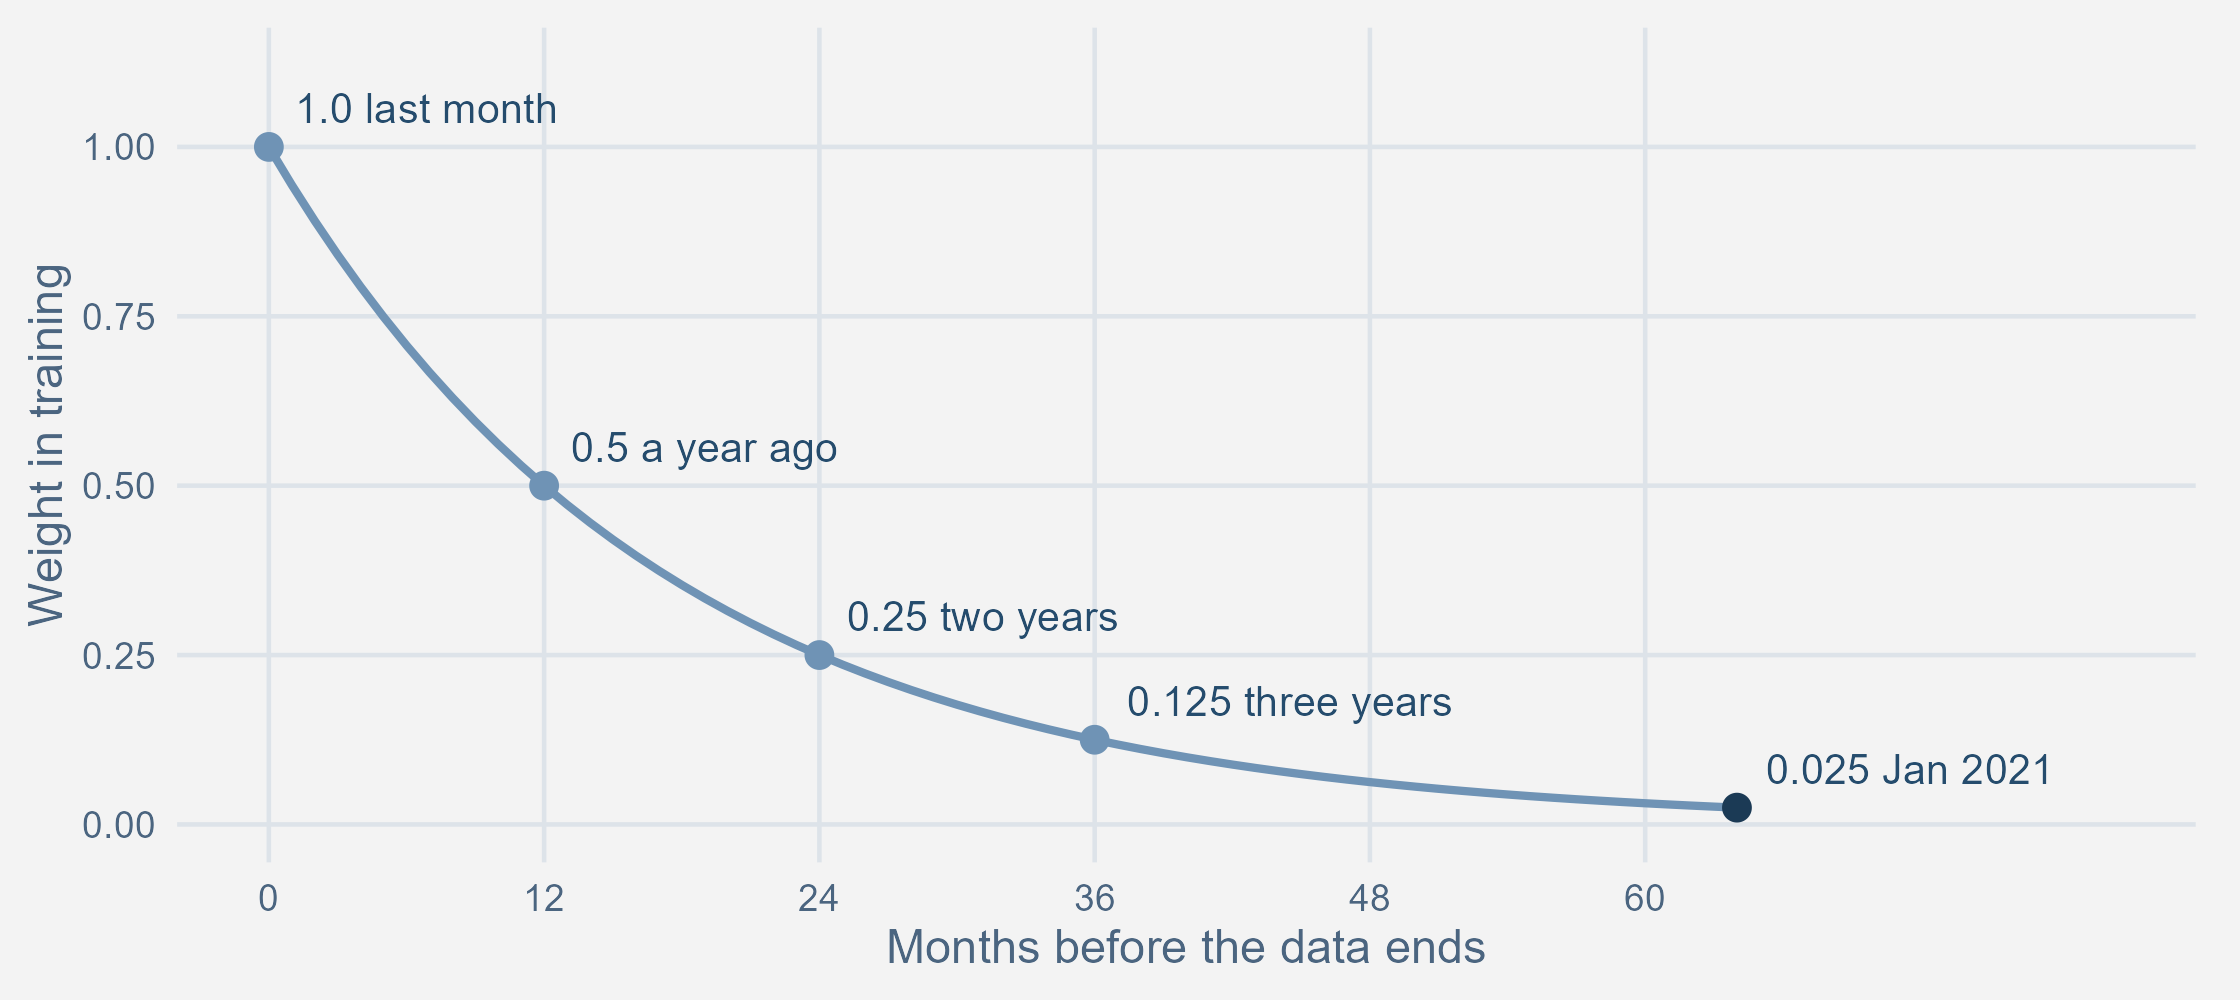
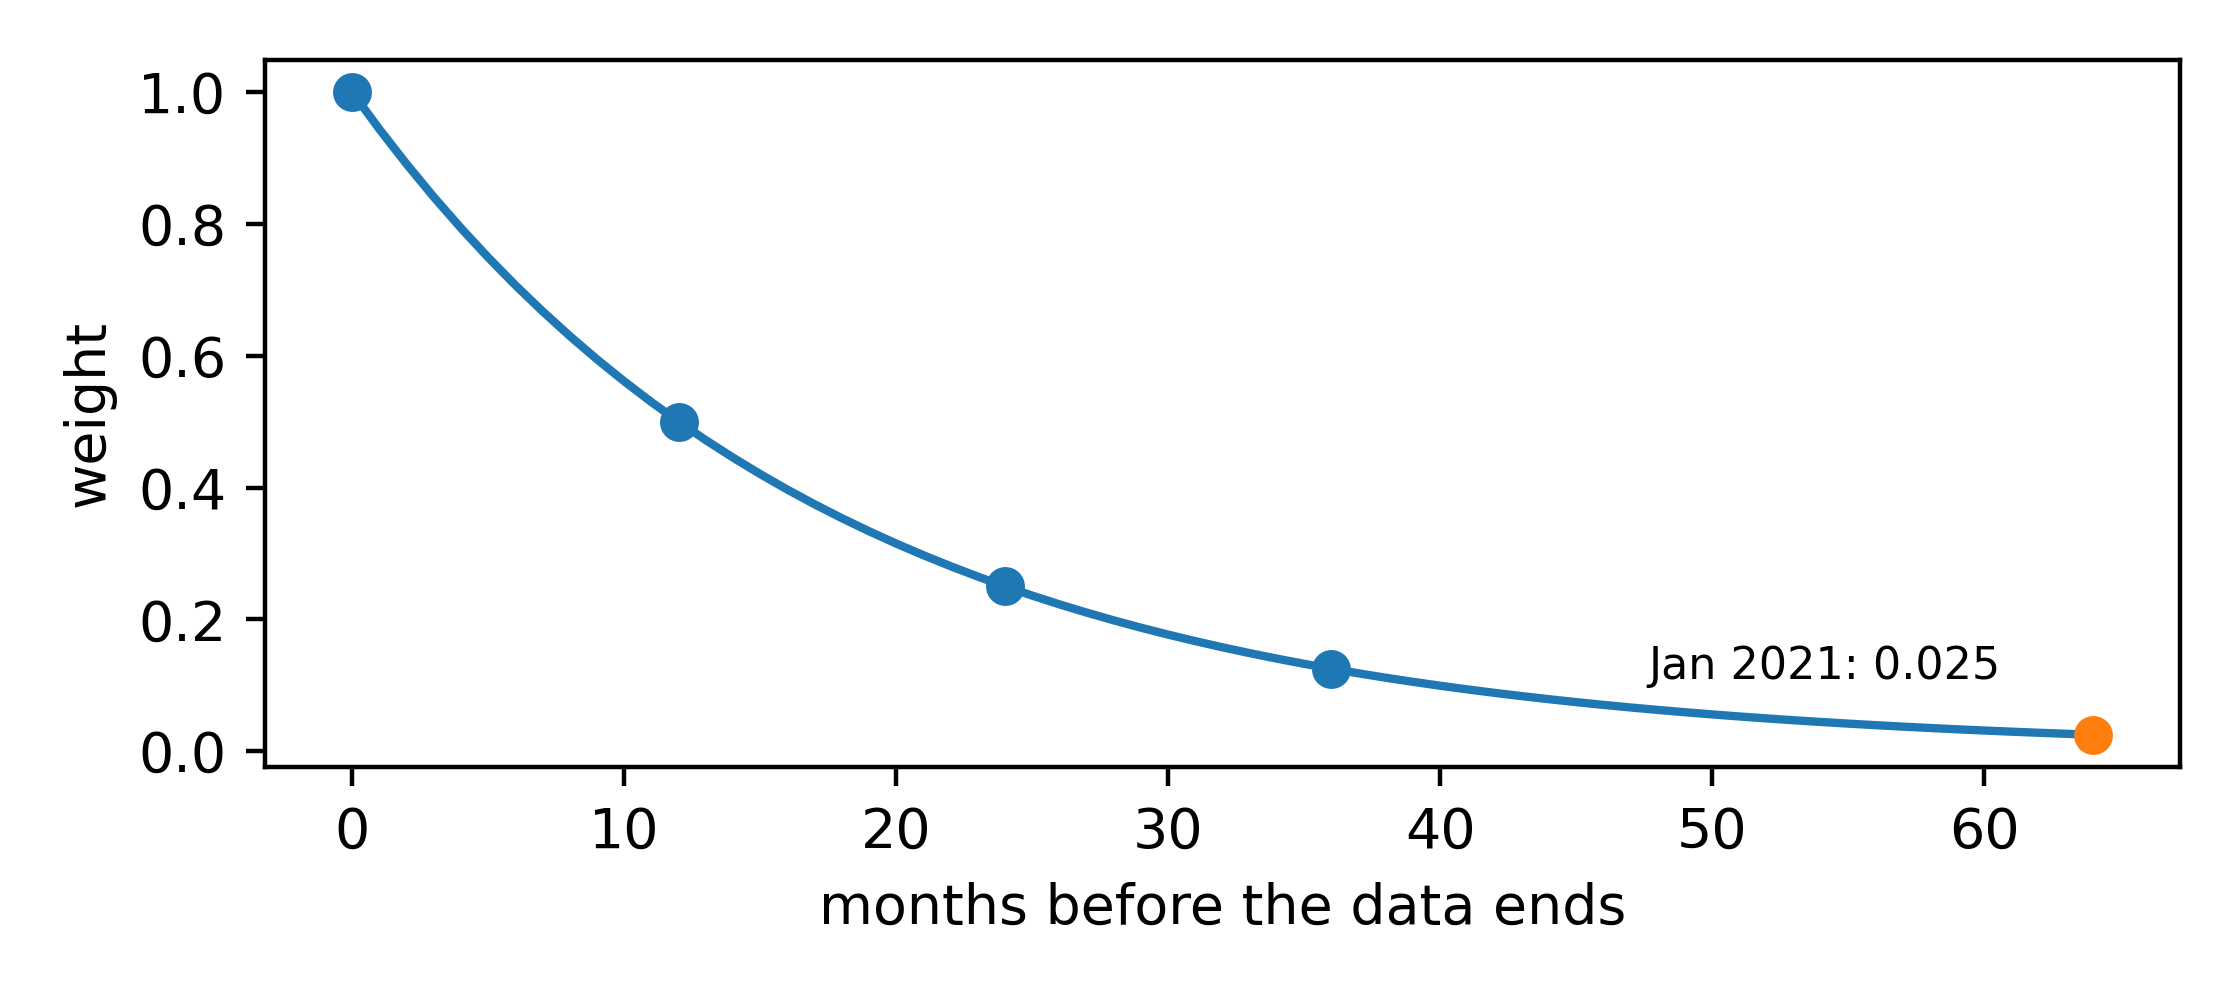
Slide charts in stock ggplot2 and matplotlib; add predicted-vs-actual, tree and fold charts
r/slide_figure_data.py also exports the two small trees; r/slide_figures.R uses theme_grey and
draws predicted vs actual (54,991 out-of-sample homes), the five folds and both trees;
r/slide_figures_matplotlib.py draws the model-side charts.

diff --git a/r/slide_figures_matplotlib.py b/r/slide_figures_matplotlib.py
@@ -1,0 +1,102 @@
+"""The model-side slide charts, in plain matplotlib. From the repo folder, after
+python r/slide_figure_data.py:
+
+    python r/slide_figures_matplotlib.py     writes figures/slides/{split,boosting,steps,recency,onetree,importance}.png
+
+The other slide charts come from r/slide_figures.R.
+"""
+from pathlib import Path
+
+import matplotlib
+matplotlib.use("Agg")
+import matplotlib.pyplot as plt
+import numpy as np
+import pandas as pd
+
+ROOT = Path(__file__).resolve().parents[1]
+DATA = ROOT / "outputs" / "figure_data"
+OUT = ROOT / "figures" / "slides"
+
+
+def save(fig, name):
+    fig.tight_layout()
+    fig.savefig(OUT / f"{name}.png", dpi=400)
+    plt.close(fig)
+
+
+def main():
+    OUT.mkdir(parents=True, exist_ok=True)
+
+    # how a tree picks its first question: error removed by every possible cut
+    sp = pd.read_csv(DATA / "split.csv")
+    fig, ax = plt.subplots(figsize=(5.6, 2.7))
+    for name, rows in sp.groupby("feature", sort=False):
+        best = rows.loc[rows["drop"].idxmax()]
+        label = f"{name} (best cut {best.cut:,.0f})" if name == "Size" else f"{name} (best cut ${best.cut / 1e3:,.0f}k)"
+        line, = ax.plot(100 * rows["q"], rows["drop"], label=label)
+        ax.plot(100 * best.q, best["drop"], "o", color=line.get_color())
+    ax.set_xlabel("where the cut falls (% of sales below it)")
+    ax.set_ylabel("% of error removed")
+    ax.legend(fontsize=8)
+    save(fig, "split")
+
+    # typical miss as trees are added
+    bo = pd.read_csv(DATA / "boosting.csv")
+    fig, ax = plt.subplots(figsize=(8, 2.8))
+    ax.plot(bo["trees"], bo["mdape"], marker="o")
+    ax.set_xscale("log")
+    ax.set_xlim(0.7, 4000)
+    ax.set_ylim(0, 40)
+    ax.set_xlabel("number of trees")
+    ax.set_ylabel("MdAPE (%)")
+    for n in (1, 100, 2000):
+        v = bo.loc[bo["trees"] == n, "mdape"].iloc[0]
+        ax.annotate(f"{v:.1f}%", (n, v), textcoords="offset points", xytext=(4, 6), fontsize=8)
+    save(fig, "boosting")
+
+    # the Elmbank house's value as trees are added
+    st = pd.read_csv(DATA / "steps.csv")
+    fig, ax = plt.subplots(figsize=(8, 2.6))
+    ax.plot(st["trees"] + 1, st["value"] / 1e3, marker="o")
+    ax.set_xscale("log")
+    ax.set_xticks([1, 2, 11, 101, 1001, 2001], ["0", "1", "10", "100", "1000", "2000"])
+    ax.set_xlabel("trees added so far")
+    ax.set_ylabel("value ($ thousands)")
+    for n, txt in ((0, "start"), (50, "50 trees"), (2000, "2000 trees")):
+        v = st.loc[st["trees"] == n, "value"].iloc[0] / 1e3
+        ax.annotate(f"{txt}: ${v:,.0f}k", (n + 1, v), textcoords="offset points", xytext=(4, 6), fontsize=8)
+    save(fig, "steps")
+
+    # recency weights
+    m = np.arange(0, 65)
+    fig, ax = plt.subplots(figsize=(5.6, 2.5))
+    ax.plot(m, 0.5 ** (m / 12))
+    ax.plot([0, 12, 24, 36], [1, 0.5, 0.25, 0.125], "o", color="C0")
+    ax.plot([64], [0.5 ** (64 / 12)], "o", color="C1")
+    ax.annotate("Jan 2021: 0.025", (64, 0.5 ** (64 / 12)), textcoords="offset points", xytext=(-80, 10), fontsize=8)
+    ax.set_xlabel("months before the data ends")
+    ax.set_ylabel("weight")
+    save(fig, "recency")
+
+    # one big tree vs boosting
+    ot = pd.read_csv(DATA / "onetree.csv")
+    fig, ax = plt.subplots(figsize=(8.32, 2.0))
+    bars = ax.barh(ot["model"][::-1], ot["mdape"][::-1])
+    ax.bar_label(bars, fmt="%.2f%%", fontsize=8, padding=3)
+    ax.set_xlim(0, 13)
+    ax.set_xlabel("MdAPE (%), 2024 summer backtest")
+    save(fig, "onetree")
+
+    # permutation importance by feature family
+    im = pd.read_csv(DATA / "importance.csv").sort_values("added")
+    fig, ax = plt.subplots(figsize=(8.32, 2.1))
+    bars = ax.barh(im["family"], im["added"])
+    ax.bar_label(bars, fmt="+%.1f", fontsize=8, padding=3)
+    ax.set_xlim(0, 18.5)
+    ax.set_xlabel("increase in MdAPE when the family is shuffled (percentage points)")
+    save(fig, "importance")
+    print(f"wrote 6 charts to {OUT.relative_to(ROOT)}")
+
+
+if __name__ == "__main__":
+    main()

diff --git a/r/slide_figure_data.py b/r/slide_figure_data.py
@@ -147,6 +147,25 @@ def season_2024(listings):
     rows.append(("Four boosted models, averaged", mdape(np.exp(np.mean(value, 0) + level), sold)))
     pd.DataFrame(rows, columns=["model", "mdape"]).to_csv(OUT / "onetree.csv", index=False)
 
+    # two small readable trees for the tree-logic slides: one on neighbours' value and size, and
+    # a three-level one on four features, with the example home's path through it
+    def nodes(dt, columns, path=()):
+        tr = dt.tree_
+        return pd.DataFrame({"node": range(tr.node_count), "left": tr.children_left, "right": tr.children_right,
+                             "feature": [columns[f] if f >= 0 else "" for f in tr.feature], "threshold": tr.threshold,
+                             "n": tr.n_node_samples, "value": np.exp(tr.value[:, 0, 0]),
+                             "on_path": [i in path for i in range(tr.node_count)]})
+    simple = pd.DataFrame({"sqft": np.exp(avm.X_train["lsqft"]), "nbr_value": np.exp(avm.X_train["knn_val"])}).fillna(-1)
+    dt2 = DecisionTreeRegressor(max_depth=2, min_samples_leaf=500).fit(simple, avm.y_train)
+    nodes(dt2, list(simple.columns)).to_csv(OUT / "tree2.csv", index=False)
+    def readable(frame):
+        return pd.DataFrame({"is_condo": frame["type"].isin(["Condo Apt", "Condo Townhouse", "Co-Op Apt"]).astype(int).to_numpy(),
+                             "sqft": np.exp(frame["lsqft"]).fillna(-1).to_numpy(), "nbr_value": np.exp(frame["knn_val"]).fillna(-1).to_numpy(),
+                             "text_score": frame["text_score"].to_numpy()})
+    dt3 = DecisionTreeRegressor(max_depth=3, min_samples_leaf=1000).fit(readable(avm.X_train), avm.y_train, sample_weight=avm.weights)
+    path = dt3.decision_path(readable(X.iloc[[r]])).indices
+    nodes(dt3, ["is_condo", "sqft", "nbr_value", "text_score"], set(path)).to_csv(OUT / "tree3.csv", index=False)
+
     # permutation importance by feature family
     families = {"Size & rooms": ["lsqft", "area_is_range", "bedrooms", "washrooms", "parking_total", "garage", "lot_front", "lot_depth", "lot_area"],
                 "Type & style": ["type", "style"], "Location": ["lat", "lon", "muni", "community"],

diff --git a/README.md b/README.md
@@ -50,12 +50,13 @@ Full run: `python run.py backtest && python run.py validate && python run.py rep
 
 ## Slide figures (R)
 
-The off-market slide charts are drawn in R (ggplot2) from the model's own numbers. After
-`python run.py backtest`, from this folder:
+The off-market slide charts are drawn in R (ggplot2) and matplotlib from the model's own numbers.
+After `python run.py backtest` and `python run.py validate`, from this folder:
 
 ```
-python r/slide_figure_data.py    # model numbers -> outputs/figure_data/ (about 15 minutes)
-Rscript r/slide_figures.R        # charts -> figures/slides/
+python r/slide_figure_data.py           # model numbers -> outputs/figure_data/ (about 15 minutes)
+Rscript r/slide_figures.R               # data and error charts, tree diagrams -> figures/slides/
+python r/slide_figures_matplotlib.py    # model-side charts -> figures/slides/
 ```
 
 R packages: `install.packages(c("ggplot2", "scales", "ragg"))`.
